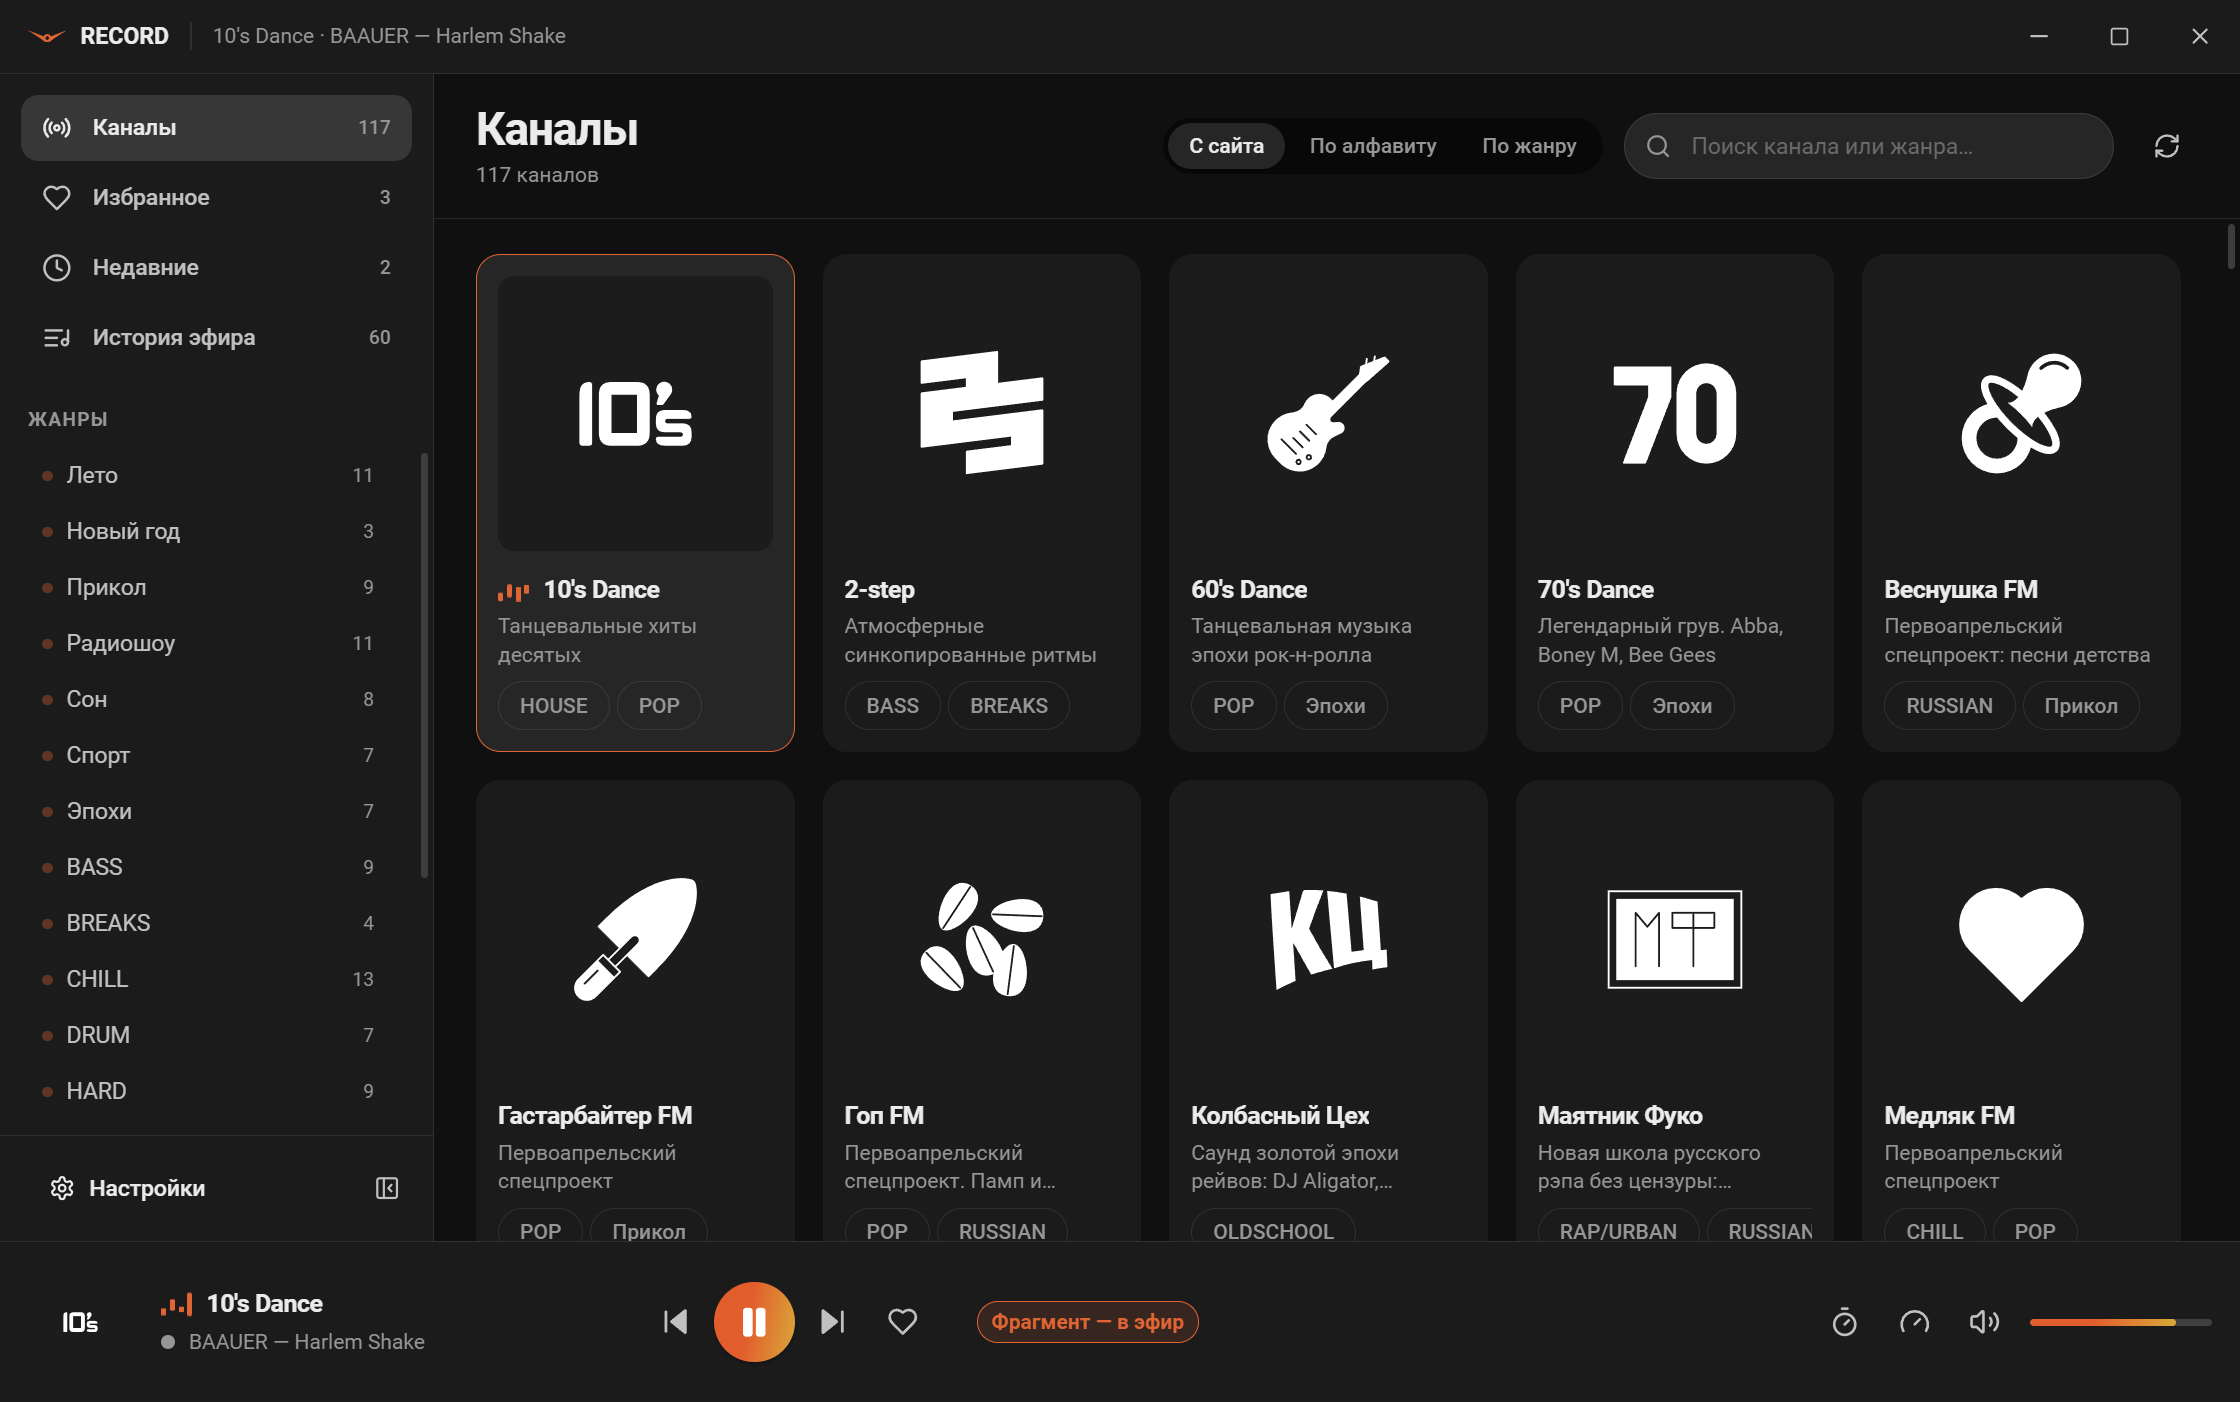
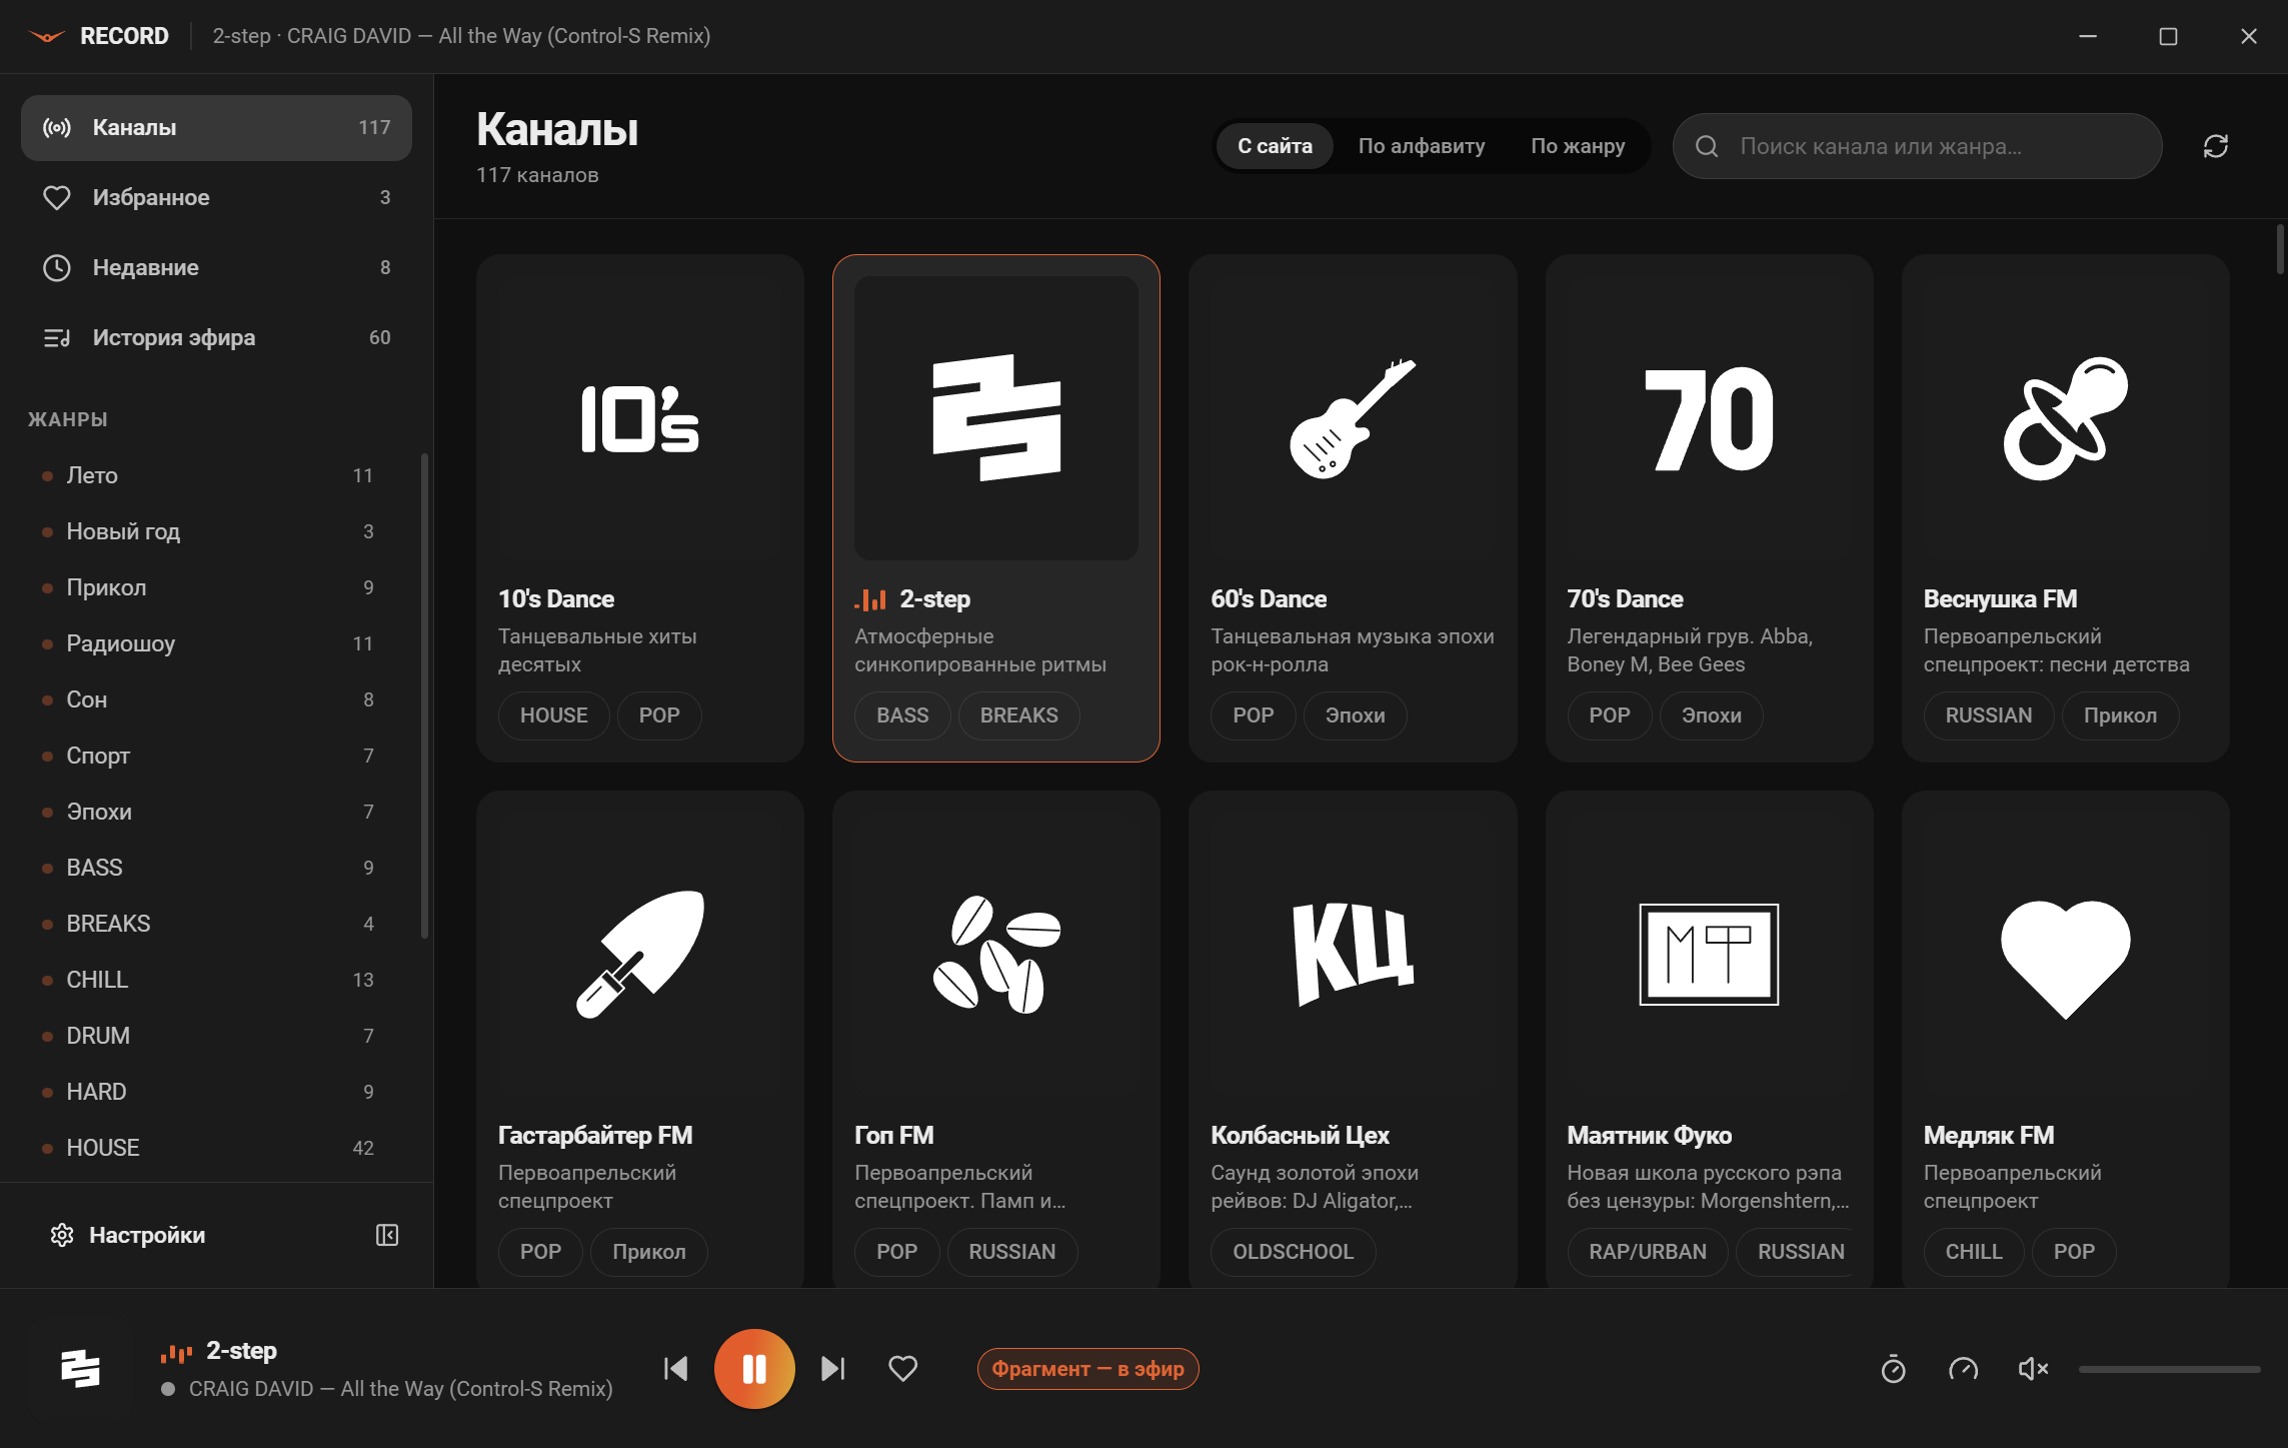
Add history and settings captures to the README
Both are reached the way a person reaches them - a click on .nav-item and a
click on the sidebar footer button - rather than by poking the store, so the
frames show what the interface actually gets you.

The first version of the settings assertion counted '.row' and passed on 3
elements, because Setting() renders '.setting'; it would have cleared a
dialog that was nearly empty. It now counts .setting (14 present) and checks
the title, and the history check confirms the panel heading instead of just
finding log rows. Escape-to-close is a check of its own, so a modal left open
by a future change fails the run instead of leaking into the layout map.

inspect-png.mjs expands globs itself. PowerShell hands a wildcard to a native
command verbatim, so 'node inspect-png.mjs docs\*.png' arrived as one literal
path. Expanding inside the script also avoids dirname(), which returns '.' for
both 'docs' and 'docs\' on Windows - the first has no separator and the second
is root-relative, so either way the search ran against the repo root and found
nothing.

55 checks, all passing.

diff --git a/src/main/smoke.ts b/src/main/smoke.ts
@@ -1280,6 +1280,80 @@ export async function runSmoke(win: BrowserWindow): Promise<void> {
       `(() => { document.documentElement.dataset.theme = 'dark'; return true; })()`,
     );
 
+    // --- README captures: the history view and the settings dialog ---
+    // Both are reached by clicking what a person would click, not by poking the
+    // store, so the frames show what the interface actually gets you.
+    const clickText = async (selector: string, label: string): Promise<boolean> => {
+      const hit = (await win.webContents.executeJavaScript(`(() => {
+        const el = Array.from(document.querySelectorAll(${JSON.stringify(selector)}))
+          .find((n) => (n.textContent || '').includes(${JSON.stringify(label)}));
+        if (!el) return null;
+        const r = el.getBoundingClientRect();
+        return { x: Math.round(r.left + r.width / 2), y: Math.round(r.top + r.height / 2) };
+      })()`)) as { x: number; y: number } | null;
+      if (!hit) return false;
+      for (const type of ["mouseDown", "mouseUp"] as const) {
+        win.webContents.sendInputEvent({ type, x: hit.x, y: hit.y, button: "left", clickCount: 1 });
+      }
+      await sleep(700);
+      return true;
+    };
+
+    if (await clickText(".nav-item", "История эфира")) {
+      const log = (await win.webContents.executeJavaScript(`(() => {
+        const heading = document.querySelector('.panel__title');
+        const active = document.querySelector('.nav-item--active, .nav-item.is-active');
+        return {
+          heading: (heading?.textContent || '').trim(),
+          active: (active?.textContent || '').trim(),
+          rows: document.querySelectorAll('.track').length,
+        };
+      })()`)) as { heading: string; active: string; rows: number };
+      const historyPng = await capture();
+      writeFileSync(join(outDir, "smoke-history.png"), historyPng);
+      add(
+        "History view screenshot",
+        historyPng.length > 10_000 && log.rows > 5 && log.heading.includes("История"),
+        `smoke-history.png (${(historyPng.length / 1024).toFixed(0)} KB), ` +
+          `heading "${log.heading}", active "${log.active}", ${log.rows} rows`,
+      );
+    } else {
+      add("History view screenshot", false, "no sidebar item for История эфира");
+    }
+
+    // Back to the grid before anything else: the panel map below describes the
+    // channel view, and .station-grid does not exist while the log is open.
+    await clickText(".nav-item", "Каналы");
+
+    if (await clickText(".sidebar__footer .btn", "Настройки")) {
+      // .setting is the row wrapper Setting() renders; counting .row here would
+      // have matched a fraction of the dialog and passed on a nearly empty one.
+      const dialog = (await win.webContents.executeJavaScript(`(() => {
+        const d = document.querySelector('.dialog');
+        return {
+          title: (d?.querySelector('.dialog__title')?.textContent || '').trim(),
+          settings: document.querySelectorAll('.dialog .setting').length,
+          switches: document.querySelectorAll('.dialog .switch, .dialog .segmented').length,
+        };
+      })()`)) as { title: string; settings: number; switches: number };
+      const settingsPng = await capture();
+      writeFileSync(join(outDir, "smoke-settings.png"), settingsPng);
+      add(
+        "Settings dialog screenshot",
+        settingsPng.length > 10_000 && dialog.title === "Настройки" && dialog.settings >= 8,
+        `smoke-settings.png (${(settingsPng.length / 1024).toFixed(0)} KB), ` +
+          `title "${dialog.title}", ${dialog.settings} settings, ${dialog.switches} controls`,
+      );
+      win.webContents.sendInputEvent({ type: "keyDown", keyCode: "Escape" });
+      await sleep(500);
+      const stillOpen = (await win.webContents.executeJavaScript(
+        `!!document.querySelector('.dialog')`,
+      )) as boolean;
+      add("Settings dialog closes on Escape", !stillOpen, stillOpen ? "dialog still open" : "closed");
+    } else {
+      add("Settings dialog screenshot", false, "no Настройки button in the sidebar footer");
+    }
+
     // A coarse ASCII map of the panel boxes, so the report says something about
     // the arrangement even without a human looking at the PNG.
     const map = (await win.webContents.executeJavaScript(`(() => {

diff --git a/README.md b/README.md
@@ -9,7 +9,11 @@
 
 ## Скриншоты
 
-![Интерфейс](docs/screenshot-dark.png)
+![Каталог каналов](docs/screenshot-dark.png)
+
+![История эфира](docs/screenshot-history.png)
+
+![Настройки](docs/screenshot-settings.png)
 
 <details>
 <summary>Светлая тема</summary>
@@ -62,23 +66,25 @@ npm run dist       # сборка установщика через electron-bui
 $env:RECORD_MINI_SMOKE="C:\Windows\Temp\rm-smoke"; npm run smoke
 ```
 
-Результат — 52 проверки, файлы `report.json`, `layout.txt` (ASCII-карта панелей), `smoke.png` и `smoke-light.png`.
+Результат — 55 проверок, файлы `report.json`, `layout.txt` (ASCII-карта панелей) и четыре кадра: `smoke.png`, `smoke-light.png`, `smoke-history.png`, `smoke-settings.png`.
 
-`smoke.png` и `smoke-light.png` — те самые кадры, что лежат в `docs/` и показаны в README. После изменения интерфейса перезалить их стоит так:
+Это те самые кадры, что лежат в `docs/` и показаны в README. История эфира и настройки снимаются кликом по тому же элементу, что и у человека: smoke не лезет в стор, а жмёт `.nav-item` и кнопку в подвале меню. После изменения интерфейса перезалить их стоит так:
 
 ```bash
 $env:RECORD_MINI_SMOKE="C:\Windows\Temp\rm-smoke"; npm run smoke
-Copy-Item $env:RECORD_MINI_SMOKE\smoke.png docs\screenshot-dark.png
-Copy-Item $env:RECORD_MINI_SMOKE\smoke-light.png docs\screenshot-light.png
+Copy-Item $env:RECORD_MINI_SMOKE\smoke.png           docs\screenshot-dark.png
+Copy-Item $env:RECORD_MINI_SMOKE\smoke-light.png      docs\screenshot-light.png
+Copy-Item $env:RECORD_MINI_SMOKE\smoke-history.png    docs\screenshot-history.png
+Copy-Item $env:RECORD_MINI_SMOKE\smoke-settings.png   docs\screenshot-settings.png
 ```
 
 Пустой или однотонный кадр проходит проверку размера, поэтому кадр стоит убедить содержимым, а не наличием файла:
 
 ```bash
-node tools/inspect-png.mjs docs\screenshot-dark.png
+node tools/inspect-png.mjs docs\*.png
 ```
 
-Скрипт распаковывает PNG и печатает число различных цветов, долю доминирующего цвета и среднюю яркость: плоский кадр даёт единицы цветов и одну моду. Размер 2240×1402 — это device-пиксели окна на HiDPI, GitHub масштабирует сам.
+Скрипт распаковывает PNG и печатает число различных цветов, долю доминирующего цвета и среднюю яркость: плоский кадр даёт единицы цветов и одну моду. Размер 2288×1448 — это device-пиксели окна на HiDPI, GitHub масштабирует сам.
 
 ## Сборка .exe в CI
 
